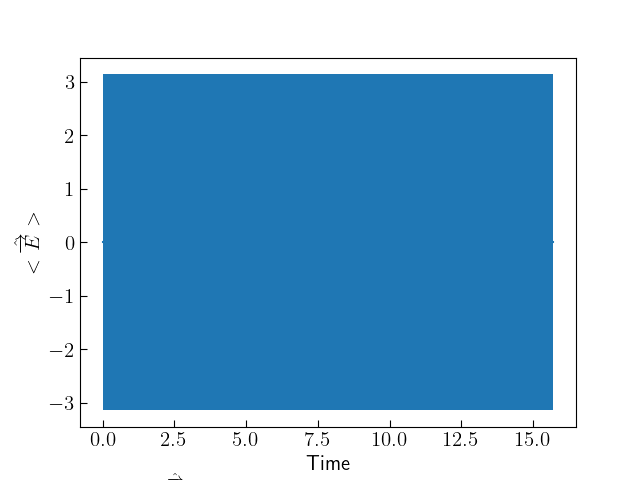
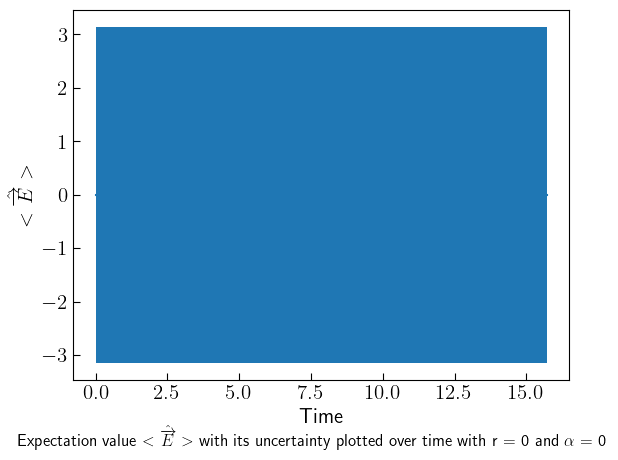
part ii added

diff --git a/GenGraph.py b/GenGraph.py
@@ -62,7 +62,7 @@ for r in r_vals_i:
     txt="Expectation value $<\hat{\overrightarrow{E}}>$ with its uncertainty plotted over time with r = " \
             + str(r) + " and $\\alpha$ = " + str(alpha_i)
     plt.figtext(0.5, -0.03, txt, wrap=True, horizontalalignment='center', fontsize=12)
-    plt.savefig("hw_6_computational_r=" + str(r) + "_alpha=" + str(alpha_i))
+    plt.savefig("hw_6_computational_r=" + str(r) + "_alpha=" + str(alpha_i), bbox='tight')
     plt.show()
 
 # %%
